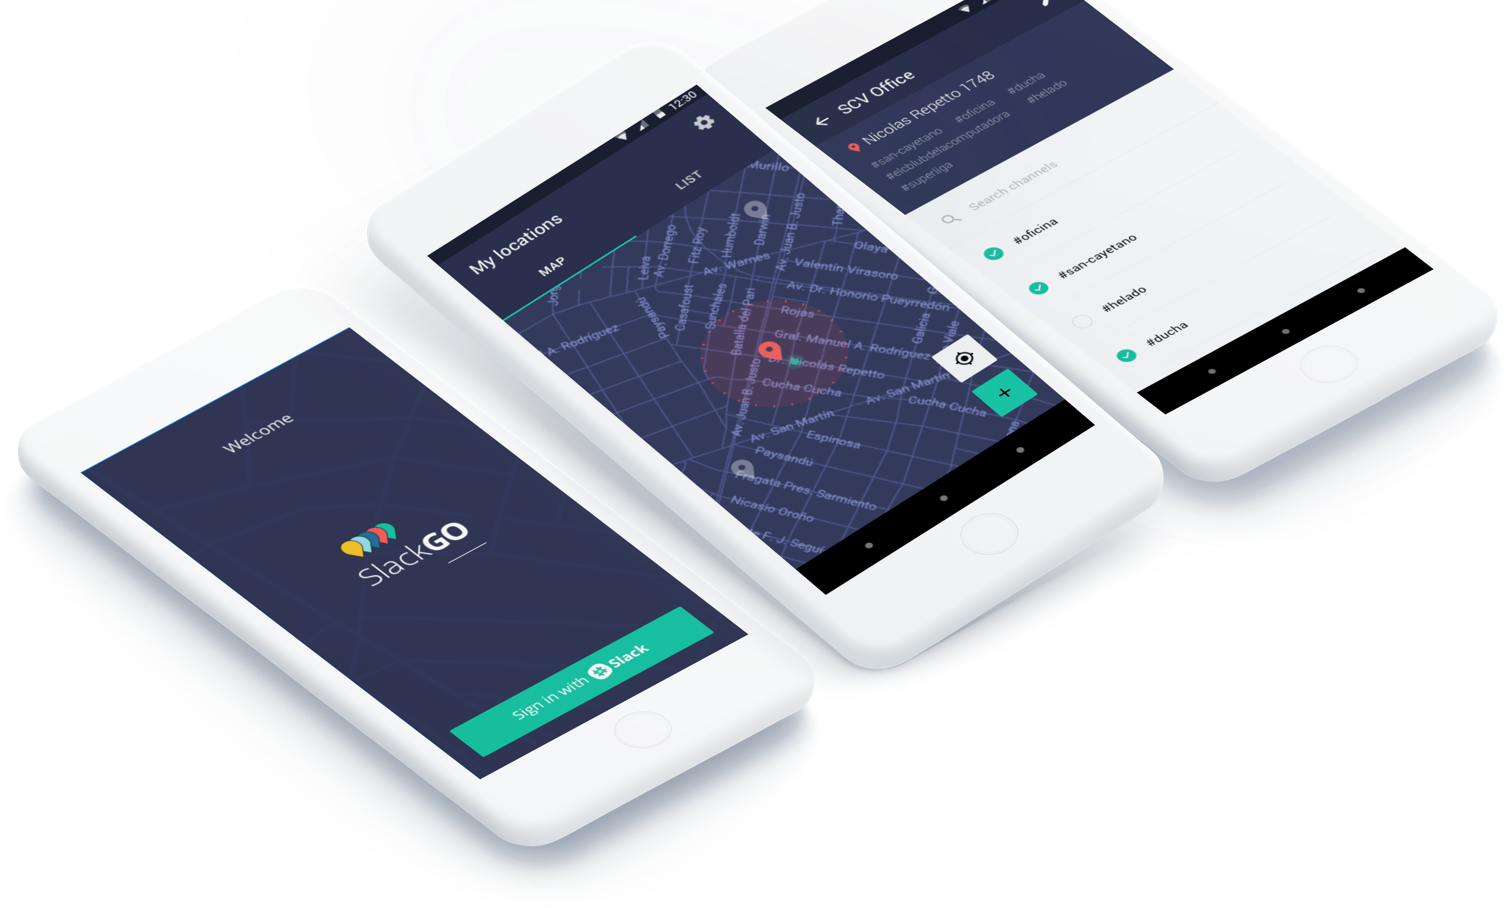
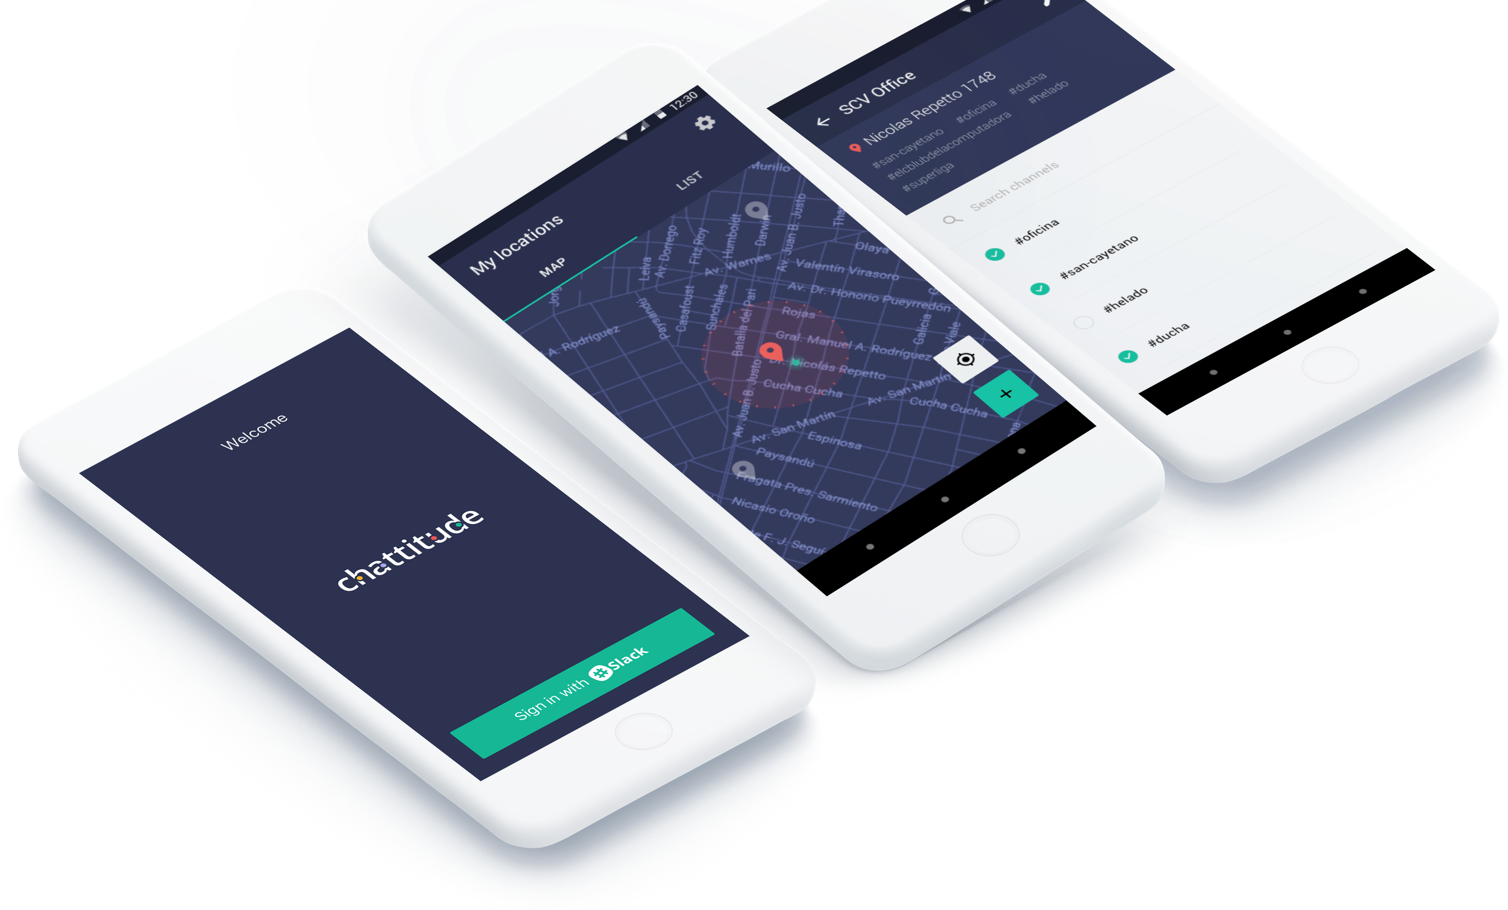
Rename app to chattitude

diff --git a/index.html b/index.html
@@ -4,7 +4,7 @@
     <meta charset="utf-8">
     <meta http-equiv="X-UA-Compatible" content="IE=edge">
     <meta name="viewport" content="width=device-width, initial-scale=1">
-    <title>SlackGO</title>
+    <title>Chattitude</title>
 
   	<link href="https://fonts.googleapis.com/css?family=Open+Sans:300,400,800" rel="stylesheet">
     <link rel="stylesheet" href="https://cdn.jsdelivr.net/npm/animate.css@3.5.2/animate.min.css">
@@ -20,16 +20,16 @@
 
   <body>
   	<section class="hero">
-      <img class="hero-logo" src="assets/img/logo_slackgo.png" />
-  		<img class="background-image" src="assets/img/img_phones.png" />
+      <img class="hero-logo" src="assets/img/logo_chattitude.svg" />
+  		<img class="background-image wow fadeInDown" src="assets/img/img_phones.png" />
       <div class="hero-data">
         <div class="header-title">Make your Slack activity geo-relevant using nothing but your phone</div>
-        <div class="header-subtitle">Whether you are arriving to the <span class="no-breaking">#office</span>, just came back <span class="no-breaking">#home</span>, attending <span class="no-breaking">#that-conference</span> or on-site with <span class="no-breaking">#a-particular-customer</span>, SlackGo helps you stay in the right channels for your current location</div>
+        <div class="header-subtitle">Whether you are arriving to the <span class="no-breaking">#office</span>, just came back <span class="no-breaking">#home</span>, attending <span class="no-breaking">#that-conference</span> or on-site with <span class="no-breaking">#a-particular-customer</span>, Chattitude helps you stay in the right channels for your current location</div>
         <div class="download-container">
-          <a href="https://play.google.com/store/apps/details?id=com.scvsoft.slackgo">
+          <a href="https://play.google.com/store/apps/details?id=com.scvsoft.chattitude">
             <img src="assets/img/logo_google_play.svg" />
           </a>
-          <a href="https://itunes.apple.com/us/app/slackgo/id1304545336?ls=1&mt=8">
+          <a href="https://itunes.apple.com/us/app/chattitude/id1370500217">
             <img src="assets/img/logo_app_store.svg" />
           </a>
         </div>
@@ -38,7 +38,7 @@
 
     <section class="usage">
       <div class="usage-slogan">
-        <span>SlackGo is really simple to use</span>
+        <span>Chattitude is really simple to use</span>
       </div>
       <div class="usage-steps-container">
         <div class="usage-steps">
@@ -62,7 +62,7 @@
       <div class="features-container">
         <div class="features-phone"></div>
         <div class="features-text-container features-title">
-          What can you do with SlackGo?
+          What can you do with Chattitude?
         </div>
       </div>
       <div class="features-container">
@@ -92,10 +92,10 @@
   Set up a custom, smarter tune-off by leaving automatically all those channels as you leave your workplace.
           </div>
           <div class="download-container">
-            <a href="https://play.google.com/store/apps/details?id=com.scvsoft.slackgo">
+            <a href="https://play.google.com/store/apps/details?id=com.scvsoft.chattitude">
               <img src="assets/img/logo_google_play.svg" />
             </a>
-            <a href="https://itunes.apple.com/us/app/slackgo/id1304545336?ls=1&mt=8">
+            <a href="https://itunes.apple.com/us/app/chattitude/id1370500217">
               <img src="assets/img/logo_app_store.svg" />
             </a>
           </div>

diff --git a/README.md b/README.md
@@ -1,1 +1,1 @@
-# SlackGo-Site
+# Chattitude-Site
